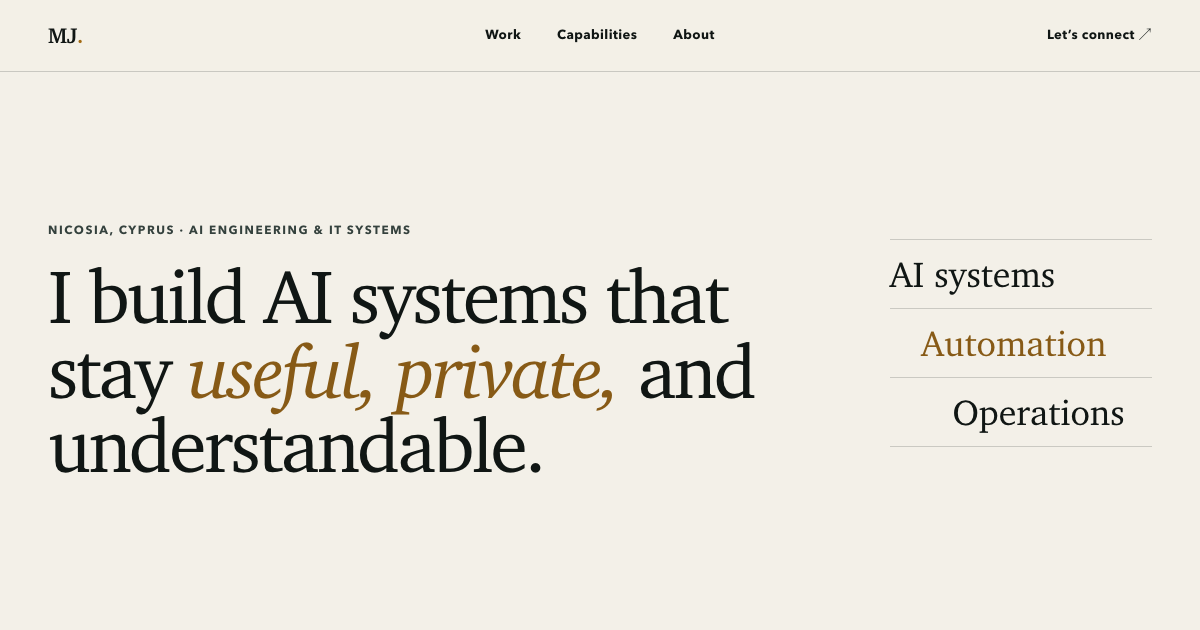
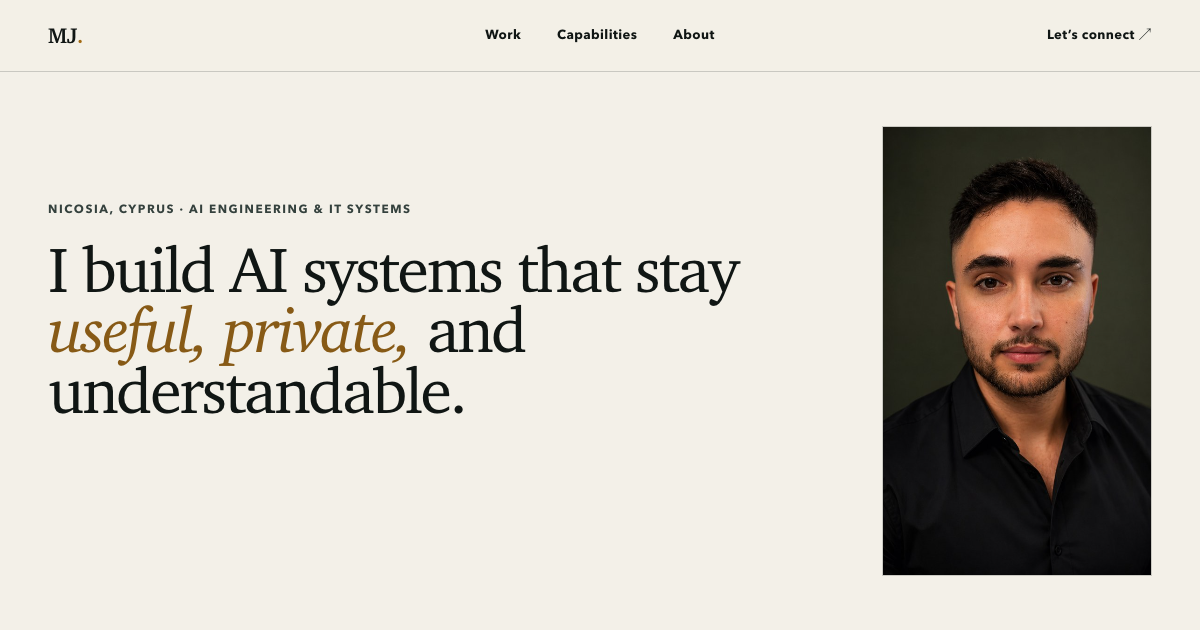
feat: add professional profile portrait

Changed region(s): [[0.7092, 0.181, 0.9867, 0.9349], [0.0308, 0.3016, 0.6475, 0.754]]

diff --git a/styles.css b/styles.css
@@ -135,20 +135,13 @@ h1 em { color: #875a16; font-weight: 500; }
 .button-primary:hover { background: #27342f; }
 .text-link { font-size: 0.9rem; font-weight: 650; }
 .hero-aside { align-self: end; padding-bottom: 1rem; }
-.hero-mark {
-  display: grid;
-  border-top: 1px solid var(--line);
+.hero-portrait {
+  width: 100%;
+  aspect-ratio: 3 / 4;
+  object-fit: cover;
+  object-position: center top;
+  border: 1px solid var(--line);
 }
-.hero-mark span {
-  display: block;
-  padding: 1rem 0;
-  border-bottom: 1px solid var(--line);
-  font-family: var(--serif);
-  font-size: clamp(1.7rem, 3vw, 2.8rem);
-  line-height: 1;
-}
-.hero-mark span:nth-child(2) { padding-left: 12%; color: #875a16; }
-.hero-mark span:nth-child(3) { padding-left: 24%; }
 .focus-copy { margin: 1.4rem 0 0 clamp(0rem, 3vw, 2rem); padding-top: 1rem; border-top: 2px solid var(--accent); }
 .aside-label { margin: 0 0 0.35rem; color: #875a16; font-size: 0.72rem; font-weight: 750; text-transform: uppercase; letter-spacing: 0.12em; }
 .hero-aside p:last-child { margin: 0; color: var(--ink-soft); font-size: 0.92rem; }
@@ -281,7 +274,6 @@ footer a { justify-self: end; }
   h1 { font-size: clamp(3rem, 15vw, 4.4rem); }
   .hero-actions { align-items: flex-start; flex-direction: column; }
   .hero-aside { grid-template-columns: 1fr; gap: 1.5rem; }
-  .hero-mark span { font-size: 2rem; }
   .focus-copy { margin-left: 0; }
   .project-visual { min-height: 330px; }
   .project-row { grid-template-columns: 1fr auto; gap: 1rem; }

diff --git a/index.html b/index.html
@@ -45,12 +45,8 @@
           <a class="text-link" href="https://github.com/itstofi" target="_blank" rel="noreferrer">GitHub profile <span aria-hidden="true">↗</span></a>
         </div>
       </div>
-      <aside class="hero-aside" aria-label="Current focus">
-        <div class="hero-mark" aria-hidden="true">
-          <span>AI systems</span>
-          <span>Automation</span>
-          <span>Operations</span>
-        </div>
+      <aside class="hero-aside" aria-label="Portrait and current focus">
+        <img class="hero-portrait" src="assets/mustafa-jweed-portrait.jpg" alt="Portrait of Mustafa Jweed" width="720" height="960">
         <div class="focus-copy">
           <p class="aside-label">Current focus</p>
           <p>Agentic AI, local language models, AI governance, and applied automation for education and finance.</p>
